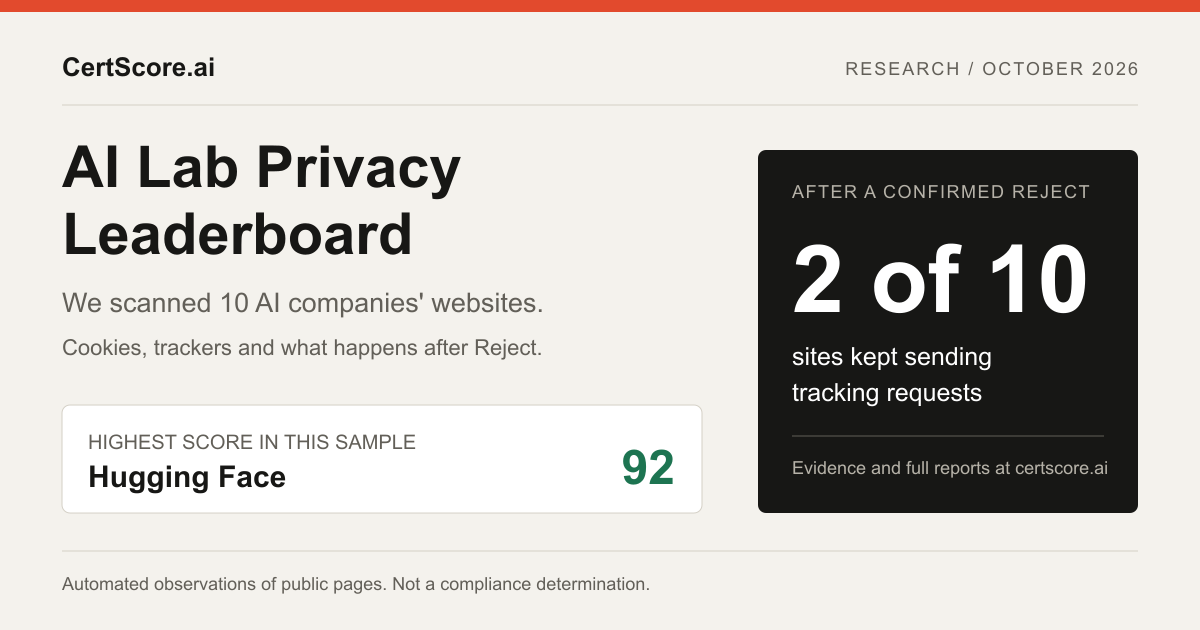
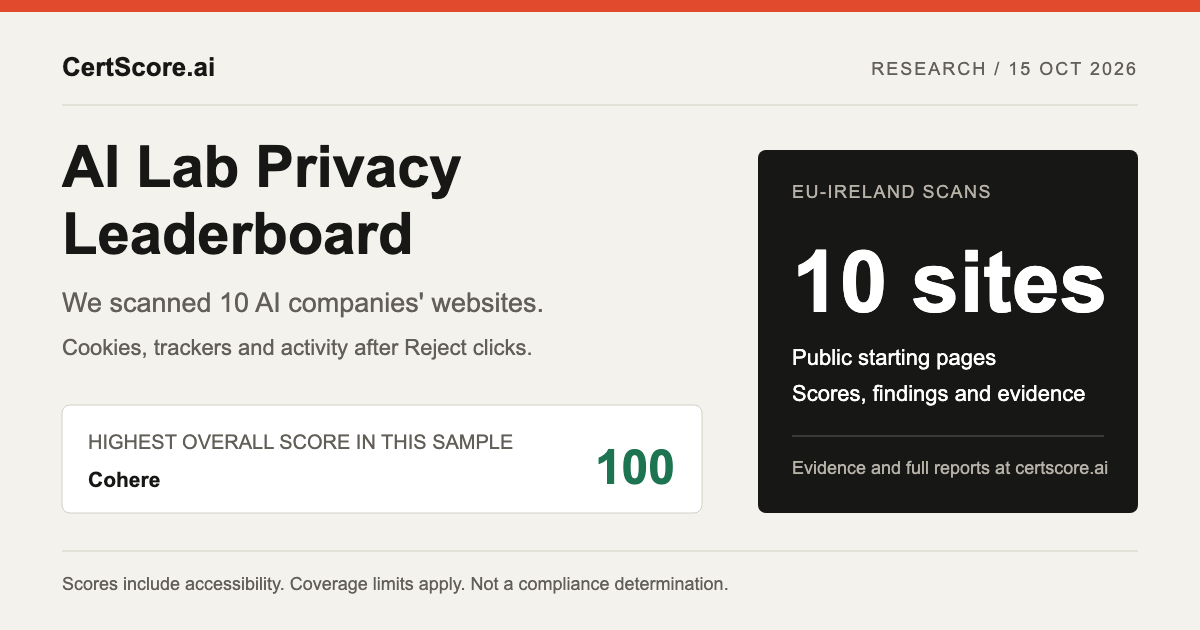
Reconcile live AI leaderboard source with repository

diff --git a/content/insights/ai-lab-privacy-leaderboard-2026.html b/content/insights/ai-lab-privacy-leaderboard-2026.html
@@ -5,26 +5,27 @@
   <meta name="color-scheme" content="light dark">
   <link rel="icon" href="/favicon.png">
   <title>AI Lab Privacy Leaderboard: We Scanned 10 AI Companies' Websites for Privacy Signals | CertScore.ai</title>
-  <meta name="description" content="CertScore.ai scanned the public websites of 10 AI companies for privacy signals: pre-consent cookies, trackers, and what happens after Reject. Hugging Face scored highest at 92.">
+  <meta name="description" content="EU-Ireland scans of 10 AI companies&#x27; websites. Cohere scored 100, OpenAI 98 and DeepMind 73. Cookies, trackers and activity after Reject, with evidence and coverage limits.">
   <link rel="canonical" href="https://certscore.ai/insights/ai-lab-privacy-leaderboard-2026">
   <meta property="og:type" content="article">
   <meta property="og:site_name" content="CertScore.ai">
   <meta property="og:url" content="https://certscore.ai/insights/ai-lab-privacy-leaderboard-2026">
   <meta property="og:title" content="AI Lab Privacy Leaderboard: We Scanned 10 AI Companies' Websites for Privacy Signals">
-  <meta property="og:description" content="CertScore.ai scanned the public websites of 10 AI companies for privacy signals: pre-consent cookies, trackers, and what happens after Reject. Hugging Face scored highest at 92.">
+  <meta property="og:description" content="EU-Ireland scans of 10 AI companies&#x27; websites. Cohere scored 100, OpenAI 98 and DeepMind 73. Cookies, trackers and activity after Reject, with evidence and coverage limits.">
   <meta property="og:image" content="https://certscore.ai/images/ai-leaderboard-social-card.png">
   <meta property="og:image:type" content="image/png">
   <meta property="og:image:width" content="1200">
   <meta property="og:image:height" content="630">
-  <meta property="og:image:alt" content="AI Lab Privacy Leaderboard: Hugging Face scored highest at 92; tracking continued after Reject on 2 of 10 sites">
+  <meta property="og:image:alt" content="AI Lab Privacy Leaderboard: EU-Ireland scans of 10 websites; Cohere scored highest at 100. Scores include privacy and accessibility checks.">
   <meta property="article:published_time" content="2026-10-12">
+  <meta property="article:modified_time" content="2026-10-15">
   <meta name="twitter:card" content="summary_large_image">
   <meta name="twitter:title" content="AI Lab Privacy Leaderboard: We Scanned 10 AI Companies' Websites for Privacy Signals">
-  <meta name="twitter:description" content="CertScore.ai scanned the public websites of 10 AI companies for privacy signals: pre-consent cookies, trackers, and what happens after Reject. Hugging Face scored highest at 92.">
+  <meta name="twitter:description" content="EU-Ireland scans of 10 AI companies&#x27; websites. Cohere scored 100, OpenAI 98 and DeepMind 73. Cookies, trackers and activity after Reject, with evidence and coverage limits.">
   <meta name="twitter:image" content="https://certscore.ai/images/ai-leaderboard-social-card.png">
-  <meta name="twitter:image:alt" content="AI Lab Privacy Leaderboard: Hugging Face scored highest at 92; tracking continued after Reject on 2 of 10 sites">
-  <script type="application/ld+json">{"@context":"https://schema.org","@type":"Article","headline":"Privacy signals on 10 AI companies' websites","description":"CertScore.ai scanned the public websites of 10 AI companies for privacy signals: pre-consent cookies, trackers, and what happens after Reject. Hugging Face scored highest at 92.","url":"https://certscore.ai/insights/ai-lab-privacy-leaderboard-2026","mainEntityOfPage":{"@type":"WebPage","@id":"https://certscore.ai/insights/ai-lab-privacy-leaderboard-2026"},"image":["https://certscore.ai/images/ai-leaderboard-social-card.png"],"author":{"@type":"Organization","name":"CertScore.ai","url":"https://certscore.ai"},"publisher":{"@type":"Organization","name":"CertScore.ai","url":"https://certscore.ai"},"datePublished":"2026-10-12","dateModified":"2026-10-14","inLanguage":"en"}</script>
-<script type="application/ld+json">{"@context":"https://schema.org","@type":"FAQPage","mainEntity":[{"@type":"Question","name":"Which AI company has the best privacy posture on its own website?","acceptedAnswer":{"@type":"Answer","text":"According to CertScore.ai MCP Light scans conducted on October 12, 2026, Hugging Face scored highest among the ten websites, at 92, with a single minor pre-consent storage observation. Its report describes an AWS WAF token as likely security-related. This ranking covers the recorded starting-page visit, not a full-site audit or compliance determination."}},{"@type":"Question","name":"What happens after you click Reject on AI company websites?","acceptedAnswer":{"@type":"Answer","text":"On 2 of the 10 sites, tracking requests kept firing after a confirmed Reject click: eight non-essential Google requests on one site and two tracking requests on another. The linked reports retain the observations. These results describe the recorded visits and do not establish how every visitor or later visit will behave."}},{"@type":"Question","name":"How does CertScore.ai scan a website?","acceptedAnswer":{"@type":"Answer","text":"CertScore.ai runs an automated browser scan of a website's public starting page. It observes pre-consent cookies and storage, tracker requests, consent-control behavior, including eligible Accept and Reject clicks, and policy surfaces. No account is needed. The linked report shows the retained observations and any limits on what the scan could assess."}},{"@type":"Question","name":"Are these findings legal determinations?","acceptedAnswer":{"@type":"Answer","text":"No. The findings are automated observations of public pages, not legal advice, certification, or a compliance determination. A flagged signal identifies something to review against the retained evidence and its context. The scans cover a starting page and a bounded visit, so they do not establish a website's complete behavior."}},{"@type":"Question","name":"What is CertScore.ai MCP Light?","acceptedAnswer":{"@type":"Answer","text":"CertScore.ai MCP Light is a free, no-auth MCP endpoint that lets AI agents run public website privacy scans from a compatible MCP client, with no OAuth required. You can also run the same type of scan manually in your browser at certscore.ai. Each report shows the observed signals, evidence and coverage limits."}}]}</script>
+  <meta name="twitter:image:alt" content="AI Lab Privacy Leaderboard: EU-Ireland scans of 10 websites; Cohere scored highest at 100. Scores include privacy and accessibility checks.">
+  <script type="application/ld+json">{"@context":"https://schema.org","@type":"Article","headline":"Privacy signals on 10 AI companies' websites","description":"EU-Ireland scans of 10 AI companies' websites. Cohere scored 100, OpenAI 98 and DeepMind 73. Cookies, trackers and activity after Reject, with evidence and coverage limits.","url":"https://certscore.ai/insights/ai-lab-privacy-leaderboard-2026","mainEntityOfPage":{"@type":"WebPage","@id":"https://certscore.ai/insights/ai-lab-privacy-leaderboard-2026"},"image":["https://certscore.ai/images/ai-leaderboard-social-card.png"],"author":{"@type":"Organization","name":"CertScore.ai","url":"https://certscore.ai"},"publisher":{"@type":"Organization","name":"CertScore.ai","url":"https://certscore.ai"},"datePublished":"2026-10-12","dateModified":"2026-10-15","inLanguage":"en"}</script>
+<script type="application/ld+json">{"@context":"https://schema.org","@type":"FAQPage","mainEntity":[{"@type":"Question","name":"Which AI company has the best privacy posture on its own website?","acceptedAnswer":{"@type":"Answer","text":"According to these October 15 EU-Ireland scans through CertScore.ai MCP Light, Cohere had the highest reported overall score at 100. Its accessibility coverage was limited. The score describes captured starting-page evidence, including privacy and accessibility checks. It does not establish legal compliance or assess conversations, training data or every visit."}},{"@type":"Question","name":"What happens after you click Reject on AI company websites?","acceptedAnswer":{"@type":"Answer","text":"OpenAI's report retained two Cloudflare analytics requests after Reject was clicked, first seen at 0.52 seconds. Cohere and xAI had no qualifying post-Reject issue in their eight-second windows. These are bounded observations of particular visits. Request purpose and retained evidence matter; requests alone do not establish a legal violation."}},{"@type":"Question","name":"How does CertScore.ai scan a website?","acceptedAnswer":{"@type":"Answer","text":"CertScore.ai runs an automated browser scan of a website's public starting page. It observes pre-consent cookies and storage, tracker requests, consent-control behavior, including eligible Accept and Reject clicks, and policy surfaces. No account is needed. The linked report shows the retained observations and any limits on what the scan could assess."}},{"@type":"Question","name":"Are these findings legal determinations?","acceptedAnswer":{"@type":"Answer","text":"No. The findings are automated observations of public pages, not legal advice, certification, or a compliance determination. A flagged signal identifies something to review against the retained evidence and its context. The scans cover a starting page and a bounded visit, so they do not establish a website's complete behavior."}},{"@type":"Question","name":"What is CertScore.ai MCP Light?","acceptedAnswer":{"@type":"Answer","text":"CertScore.ai MCP Light is a free, no-auth MCP endpoint that lets AI agents run public website privacy scans from a compatible MCP client, with no OAuth required. You can also run the same type of scan manually in your browser at certscore.ai. Each report shows the observed signals, evidence and coverage limits."}}]}</script>
   <style>
 
     :root {
@@ -333,6 +334,7 @@
       *, *::before, *::after { transition: none !important; }
     }
   </style>
+<!-- Insights S3 publishing verification: content-only release. -->
 </head>
 <body>
   <main>
@@ -343,126 +345,120 @@
           <a href="#leaderboard">Leaderboard</a>
           <a href="#findings">Findings</a>
           <a href="#method">Methodology</a>
-          <a href="#validation">Validation</a>
+          <a href="#validation">Evidence</a>
         </nav>
-        <div class="date">12 OCT 2026</div>
+        <div class="date">15 OCT 2026</div>
       </header>
 
       <section class="hero article-hero">
         <div>
-          <p class="kicker">Run with CertScore.ai MCP Light · October 12, 2026</p>
+          <p class="kicker">CertScore.ai MCP Light · EU-Ireland scans · October 15, 2026 (UTC)</p>
           <h1>Privacy signals on 10 AI companies' websites</h1>
-          <p class="dek">We scanned the public starting pages of ten AI companies: OpenAI, Anthropic, Google DeepMind, Meta AI, xAI, Mistral, Perplexity, Cohere, Groq, and Hugging Face. The reports cover cookies and storage set before consent, tracking requests, and activity after a visitor clicks “Reject.” The scores below summarize the observations from those visits.</p>
+          <p class="dek">We scanned the public starting pages of ten AI companies: OpenAI, Anthropic, Google DeepMind, Meta AI Developer website, xAI, Mistral, Perplexity, Cohere, Groq, and Hugging Face. The reports cover cookies and storage before consent, tracking requests, consent controls, and activity after Reject was clicked. The leaderboard uses CertScore.ai's overall score, which includes automated accessibility checks alongside privacy signals.</p>
           <section class="key-findings" aria-labelledby="key-findings-title">
             <h2 id="key-findings-title">Key findings</h2>
             <ul>
-              <li>Hugging Face scored highest at 92, with a single minor pre-consent storage observation.</li>
-              <li>On 2 of 10 sites, tracking requests kept firing after a confirmed Reject click: 8 non-essential Google requests on one site, 2 on another.</li>
-              <li>Pre-consent tracking was common: Google Analytics on Mistral before any click, YouTube cookies on DeepMind via embeds, a Reddit pixel on Groq.</li>
-              <li>Findings are automated observations of public pages, not legal advice or compliance determinations.</li>
+              <li>Cohere had the highest reported score at 100, with limited accessibility coverage. OpenAI scored 98; Anthropic and Hugging Face scored 93.</li>
+              <li>OpenAI's report retained two Cloudflare analytics requests after Reject was clicked, first seen at 0.52 seconds. Cohere and xAI had no qualifying post-Reject issue in their eight-second windows.</li>
+              <li>Mistral scored 82, with Google Analytics observed before a choice and storage consent declared denied. DeepMind scored 73; Groq scored 81, with Reddit and Google requests before consent.</li>
+              <li>Findings are automated observations of public pages, not legal advice or compliance determinations. Scores include accessibility checks and apply only to the captured visits.</li>
             </ul>
           </section>
         </div>
       </section>
 
+      <p class="fine-print"><strong>Scan date: October 15, 2026 (UTC).</strong> Each entry links to the report for that visit. The Meta entry covers the <strong>Meta AI Developer website</strong> at dev.meta.ai. Scores describe the public starting pages and the evidence captured during those visits.</p>
+
       <section class="scoreboard" id="leaderboard" aria-labelledby="leaderboard-title">
         <h2 class="leaderboard-heading" id="leaderboard-title">The leaderboard</h2>
-        <div class="score-head" aria-hidden="true">
-          <span>Rank</span><span>Site</span><span>Signal</span><span>CertScore.ai</span><span></span>
-        </div>
-
-        <a class="row" data-band="good" href="https://certscore.ai/scan/cfe74173-c90a-48a7-859d-740b6c823180" target="_blank" rel="noopener">
-          <span class="rank">01</span><span class="lab">huggingface.co<span class="domain">Hugging Face</span></span>
-          <span class="finding">Only flag: a pre-consent storage item (AWS WAF token, likely security-related)</span>
+        <p class="fine-print">These are overall scores, including privacy and accessibility deductions. Coverage varies: xAI's accessibility check was unassessed, and other reports retain narrower limits. Each report shows the evidence, deduction breakdown and coverage.</p>
+        <div class="score-head" aria-hidden="true"><span>Rank</span><span>Site</span><span>Signal</span><span>Overall score</span><span></span></div>
+        <a class="row" data-band="good" href="https://certscore.ai/scan/f32b8c45-3693-4cad-8456-d77c8fa39f20" target="_blank" rel="noopener">
+          <span class="rank">01</span><span class="lab">cohere.com<span class="domain">Cohere</span></span>
+          <span class="finding">No supported deductions in this visit; accessibility coverage limited.</span>
+          <span class="bar" aria-hidden="true"><span style="--w:100%"></span></span><span class="score">100</span><span class="open">View report ↗</span>
+        </a>
+        <a class="row" data-band="good" href="https://certscore.ai/scan/b0936a37-027a-449d-aeac-a5e31f6ae661" target="_blank" rel="noopener">
+          <span class="rank">02</span><span class="lab">openai.com<span class="domain">OpenAI</span></span>
+          <span class="finding">Two Cloudflare analytics requests after Reject; two points for pointer-target accessibility.</span>
+          <span class="bar" aria-hidden="true"><span style="--w:98%"></span></span><span class="score">98</span><span class="open">View report ↗</span>
+        </a>
+        <a class="row" data-band="good" href="https://certscore.ai/scan/84ae41b1-a12e-43cc-afe2-8d2762bd1d7a" target="_blank" rel="noopener">
+          <span class="rank">03</span><span class="lab">anthropic.com<span class="domain">Anthropic</span></span>
+          <span class="finding">No privacy deductions; seven points for accessible names and contrast.</span>
+          <span class="bar" aria-hidden="true"><span style="--w:93%"></span></span><span class="score">93</span><span class="open">View report ↗</span>
+        </a>
+        <a class="row" data-band="good" href="https://certscore.ai/scan/ca9b97ee-190e-402d-86f0-428f85e6267c" target="_blank" rel="noopener">
+          <span class="rank">03</span><span class="lab">huggingface.co<span class="domain">Hugging Face</span></span>
+          <span class="finding">No privacy deductions; seven points for accessible names and contrast.</span>
+          <span class="bar" aria-hidden="true"><span style="--w:93%"></span></span><span class="score">93</span><span class="open">View report ↗</span>
+        </a>
+        <a class="row" data-band="good" href="https://certscore.ai/scan/ea3fe63f-3100-474f-8e94-8bd151ccc19a" target="_blank" rel="noopener">
+          <span class="rank">05</span><span class="lab">Meta AI Developer website<span class="domain">dev.meta.ai</span></span>
+          <span class="finding">llama_dev_csrf storage purpose review; Accept and Reject observed.</span>
           <span class="bar" aria-hidden="true"><span style="--w:92%"></span></span><span class="score">92</span><span class="open">View report ↗</span>
         </a>
-        <a class="row" data-band="good" href="https://certscore.ai/scan/e3e7cb02-84dc-48fb-974a-ef63fb965e8b" target="_blank" rel="noopener">
-          <span class="rank">02</span><span class="lab">meta.ai<span class="domain">Meta AI</span></span>
-          <span class="finding">Pre-consent storage flag; otherwise clean</span>
-          <span class="bar" aria-hidden="true"><span style="--w:89%"></span></span><span class="score">89</span><span class="open">View report ↗</span>
+        <a class="row" data-band="good" href="https://certscore.ai/scan/eb8f7ee2-27b2-4a48-9df3-40a6b0b95746" target="_blank" rel="noopener">
+          <span class="rank">05</span><span class="lab">x.ai<span class="domain">xAI</span></span>
+          <span class="finding">gb_anon_id storage purpose review; accessibility could not be assessed after a document change.</span>
+          <span class="bar" aria-hidden="true"><span style="--w:92%"></span></span><span class="score">92</span><span class="open">View report ↗</span>
         </a>
-        <a class="row" data-band="good" href="https://certscore.ai/scan/358ac0fd-afba-4d17-aa0e-dc8817f9543e" target="_blank" rel="noopener">
-          <span class="rank">03</span><span class="lab">anthropic.com<span class="domain">Anthropic</span></span>
-          <span class="finding">Decline/reject control only partially supported in testing</span>
+        <a class="row" data-band="good" href="https://certscore.ai/scan/958637c6-06fa-435f-9f02-ad74d70e71de" target="_blank" rel="noopener">
+          <span class="rank">07</span><span class="lab">perplexity.ai<span class="domain">Perplexity</span></span>
+          <span class="finding">Storage purpose review and accessible-name findings on the public starting page.</span>
+          <span class="bar" aria-hidden="true"><span style="--w:88%"></span></span><span class="score">88</span><span class="open">View report ↗</span>
+        </a>
+        <a class="row" data-band="good" href="https://certscore.ai/scan/84f68b55-9384-475a-9741-dda7e2f36bfa" target="_blank" rel="noopener">
+          <span class="rank">08</span><span class="lab">mistral.ai<span class="domain">Mistral</span></span>
+          <span class="finding">Analytics before a choice with denied-storage declarations; Close offered with optional switches off.</span>
+          <span class="bar" aria-hidden="true"><span style="--w:82%"></span></span><span class="score">82</span><span class="open">View report ↗</span>
+        </a>
+        <a class="row" data-band="good" href="https://certscore.ai/scan/eca97712-985d-4409-8310-69a295887240" target="_blank" rel="noopener">
+          <span class="rank">09</span><span class="lab">groq.com<span class="domain">Groq</span></span>
+          <span class="finding">Reddit and Google requests before consent; PostHog analytics storage and unresolved storage purposes.</span>
           <span class="bar" aria-hidden="true"><span style="--w:81%"></span></span><span class="score">81</span><span class="open">View report ↗</span>
         </a>
-        <a class="row" data-band="watch" href="https://certscore.ai/scan/91cbeb92-2d29-474b-b60c-86d767f5caeb" target="_blank" rel="noopener">
-          <span class="rank">04</span><span class="lab">x.ai<span class="domain">xAI</span></span>
-          <span class="finding">Pre-consent storage; uses OneTrust consent tooling</span>
-          <span class="bar" aria-hidden="true"><span style="--w:80%"></span></span><span class="score">80</span><span class="open">View report ↗</span>
-        </a>
-        <a class="row" data-band="watch" href="https://certscore.ai/scan/1f05c7e0-6ade-4448-a965-4e1de903cace" target="_blank" rel="noopener">
-          <span class="rank">05</span><span class="lab">cohere.com<span class="domain">Cohere</span></span>
-          <span class="finding"><strong>8 non-essential Google requests fired 7+ seconds after a confirmed Reject</strong></span>
-          <span class="bar" aria-hidden="true"><span style="--w:77%"></span></span><span class="score">77</span><span class="open">View report ↗</span>
-        </a>
-        <a class="row" data-band="watch" href="https://certscore.ai/scan/14324058-98b5-4981-9f9c-cf5a76fb78d8" target="_blank" rel="noopener">
-          <span class="rank">06</span><span class="lab">openai.com<span class="domain">OpenAI</span></span>
-          <span class="finding"><strong>2 tracking requests (incl. Cloudflare) began after the Reject click</strong></span>
-          <span class="bar" aria-hidden="true"><span style="--w:75%"></span></span><span class="score">75</span><span class="open">View report ↗</span>
-        </a>
-        <a class="row" data-band="watch" href="https://certscore.ai/scan/9b1badef-048a-494e-88f5-0827d2a5e529" target="_blank" rel="noopener">
-          <span class="rank">07</span><span class="lab">groq.com<span class="domain">Groq</span></span>
-          <span class="finding">Pre-consent tracking incl. Reddit pixel and PostHog</span>
-          <span class="bar" aria-hidden="true"><span style="--w:71%"></span></span><span class="score">71</span><span class="open">View report ↗</span>
-        </a>
-        <a class="row" data-band="concern" href="https://certscore.ai/scan/4ae8cca1-0b70-46b6-9ece-8f5d1dc8fb53" target="_blank" rel="noopener">
-          <span class="rank">08</span><span class="lab">mistral.ai<span class="domain">Mistral</span></span>
-          <span class="finding">Google Analytics fired pre-consent; no reject option on the first consent layer</span>
-          <span class="bar" aria-hidden="true"><span style="--w:62%"></span></span><span class="score">62</span><span class="open">View report ↗</span>
-        </a>
-        <a class="row" data-band="concern" href="https://certscore.ai/scan/860c6f2d-7f46-4c66-8451-51e3f7405658" target="_blank" rel="noopener">
-          <span class="rank">09</span><span class="lab">deepmind.google<span class="domain">Google DeepMind</span></span>
-          <span class="finding">YouTube embeds set cookies pre-consent; heaviest deduction set in the group</span>
-          <span class="bar" aria-hidden="true"><span style="--w:59%"></span></span><span class="score">59</span><span class="open">View report ↗</span>
-        </a>
-        <a class="row unscored" href="https://certscore.ai/scan/a9992491-9bf5-480a-a999-f85017d65f13" target="_blank" rel="noopener">
-          <span class="rank">n/a</span><span class="lab">Perplexity, not scored.<span class="domain">perplexity.ai</span></span>
-          <span class="finding">Limited coverage on this run, no score produced.</span>
-          <span class="bar" aria-hidden="true"></span><span class="score" aria-hidden="true"></span><span class="open">View report ↗</span>
+        <a class="row" data-band="concern" href="https://certscore.ai/scan/497fc735-4f71-405d-a565-08be7026eac8" target="_blank" rel="noopener">
+          <span class="rank">10</span><span class="lab">deepmind.google<span class="domain">Google DeepMind</span></span>
+          <span class="finding">Three classified non-essential cookies before consent; tracking and one embed deduction.</span>
+          <span class="bar" aria-hidden="true"><span style="--w:73%"></span></span><span class="score">73</span><span class="open">View report ↗</span>
         </a>
       </section>
 
       <section class="section" id="findings">
-        <div class="section-grid">
-          <div>
-            <h2>Findings</h2>
-          </div>
-          <div class="story-list">
-            <article class="story"><span class="story-no">01</span><div><h3>Hugging Face had the highest score.</h3><p>Hugging Face scored 92. Its report flagged one pre-consent storage item, an AWS WAF token described as likely security-related.</p></div></article>
-            <article class="story"><span class="story-no">02</span><div><h3>Tracking requests after Reject clicks.</h3><p>On cohere.com, eight non-essential Google requests were observed more than seven seconds <em>after</em> a confirmed Reject click. On openai.com, two tracking requests began just under a second after Reject. Under GDPR/ePrivacy logic, a refusal should suppress optional tracking. The reports describe both as “partial concern” / “potential gap” findings. These are observations from the recorded visits, not legal verdicts.</p></div></article>
-            <article class="story"><span class="story-no">03</span><div><h3>Pre-consent tracking.</h3><p>Mistral's site fired Google Analytics before any consent interaction, and its banner didn't offer reject on the first layer. DeepMind's pages set YouTube cookies (<code>__Secure-ROLLOUT_TOKEN</code>) before consent via embeds. Groq's pre-consent inventory included a Reddit pixel.</p></div></article>
-            <article class="story"><span class="story-no">04</span><div><h3>All nine scored sites had review notes.</h3><p>Scores ranged from 59 to 92. All nine scored sites had something flagged for review, mostly storage set before consent where essentiality could not be confirmed.</p></div></article>
-          </div>
-        </div>
+        <div class="section-grid"><div><h2>Findings</h2></div><div class="story-list">
+          <article class="story"><span class="story-no">01</span><div><h3>Cohere led this sample at 100.</h3><p>Cohere scored 100, with no deductions from the captured visit. Accept, Reject and Options were observed, and no qualifying post-Reject issue was recorded during the eight-second window. Its accessibility coverage was limited, so this score should not be read as a complete accessibility assessment. A score of 100 does not establish legal compliance or cover every future visit.</p><p>Anthropic and Hugging Face each scored 93. Both lost four points for accessible names and semantics and three for contrast. Neither received a privacy deduction in these visits. Hugging Face's AWS WAF token was classified as security storage.</p></div></article>
+          <article class="story"><span class="story-no">02</span><div><h3>OpenAI: requests after Reject.</h3><p>On openai.com, two Cloudflare analytics requests began after Reject was clicked; the first was observed at 0.52 seconds. Under GDPR/ePrivacy logic, a refusal should suppress optional tracking. Request purpose matters: a network request alone does not establish optional tracking or a legal violation. The report retains this observation for review and applies no post-Reject deduction.</p><p>OpenAI scored 98. Its only deduction was two points for pointer-target accessibility. No storage deduction was supported by the captured pre-consent inventory. The after-click capture retained 21 requests in total; two were classified as analytics.</p></div></article>
+          <article class="story" id="mistral-follow-up"><span class="story-no">03</span><div><h3>Mistral: Analytics before a choice, with storage denied.</h3><p>Mistral scored 82. Its initial Axeptio panel listed Google Analytics 4 and HubSpot with optional switches off. Close was available as a necessary-only equivalent in that state. A Google Analytics request was observed before a choice and carried denied-storage consent signals.</p><p>The retained cookie inventory contained Axeptio consent records and preferences, plus the <code>__cf_bm</code> security cookie. These items did not attract a storage deduction. The score reflects eight points for pre-choice Analytics and ten for accessibility findings. This request observation does not establish that Mistral ignored a consent choice, and the scan does not treat disclosure alone as a blanket exemption.</p></div></article>
+          <article class="story"><span class="story-no">04</span><div><h3>DeepMind and Groq retained activity before consent.</h3><p>DeepMind scored 73. Three cookies were classified as non-essential before consent: YouTube's <code>__Secure-ROLLOUT_TOKEN</code> and the Google Analytics cookies <code>_ga</code> and <code>_ga_LS8HVHCNQ0</code>. The deductions were 14 points for storage, eight for tracking and five for a distinct third-party embed.</p><p>Other YouTube cookies, including <code>__Secure-YNID</code>, <code>VISITOR_INFO1_LIVE</code> and <code>__Secure-YEC</code>, remained purpose-review items. Their possible uses do not establish which purpose applied in this visit. YouTube was identified as their provider without treating that attribution as proof of advertising.</p><p>Groq scored 81. Its capture included requests classified as Reddit Pixel, Google AdSense and Google Analytics before consent. Its inventory included a PostHog analytics cookie alongside storage whose purposes remained unresolved. The score reflects eight points for storage, eight for tracking and three for contrast. PostHog storage does not by itself establish session recording.</p></div></article>
+          <article class="story"><span class="story-no">05</span><div><h3>Coverage matters alongside the score.</h3><p>The Meta AI Developer website scored 92, with eight points for unresolved <code>llama_dev_csrf</code> storage purpose. Perplexity scored 88, with eight points for storage purpose review and four for accessible names. Those storage findings call for review; cookie names alone do not establish optional tracking.</p><p>xAI scored 92, with eight points for unresolved <code>gb_anon_id</code> storage purpose. Its page document changed during the accessibility check, leaving that part unassessed. The absence of an accessibility deduction is not an accessibility pass. Cohere and xAI had no qualifying post-Reject issue during their eight-second windows.</p></div></article>
+        </div></div>
       </section>
 
       <section class="section" id="method">
-        <div class="section-grid">
-          <div><h2>Methodology</h2></div>
-          <div class="method-copy">
-            <ul>
-              <li>Each site was scanned with <strong>CertScore.ai MCP Light</strong> (free, no-auth endpoint), <code>tracking_check</code> purpose, on October 12, 2026, from the EU-IE region.</li>
-              <li>Scans cover the public starting page: pre-consent cookies/storage, tracker requests, consent-control behavior including eligible Accept/Reject click observations, and policy surfaces.</li>
-              <li>Scores follow CertScore.ai's <code>overall-posture</code> scoring policy (base 100 minus policy deductions). Most runs completed with <strong>partial coverage</strong> (<code>completed_limited</code>), automated single-page scans, not full-site audits.</li>
-              <li>Perplexity.ai could not be scored on this run due to limited coverage; that's a measurement limitation, not a judgment.</li>
-            </ul>
-          </div>
-        </div>
+        <div class="section-grid"><div><h2>Methodology</h2></div><div class="method-copy"><ul>
+          <li>We scanned all ten public starting pages through <strong>CertScore.ai MCP Light</strong>, with <code>tracking_check</code> purpose and EU-Ireland execution, on October 15, 2026 (UTC). The Meta entry covers the Meta AI Developer website at dev.meta.ai. Retained egress evidence verified Ireland for both the consent and runtime visits on all ten sites.</li>
+          <li>The reports cover pre-consent cookies and storage, tracker requests, consent-control observations, eligible Accept and Reject click captures, policy surfaces, transport security and automated accessibility checks. Where Reject could be clicked, the scanner captured roughly eight seconds of after-click activity.</li>
+          <li>The displayed number is the <strong>overall score</strong>, using <code>overall-posture.v10</code> and <code>gdpr-eprivacy-posture.v20</code>: a base of 100 minus supported deductions, with family caps. Accessibility affects this number. It is not a standalone GDPR compliance score.</li>
+          <li>After-Reject scoring distinguishes supported optional tracking or contradictions (15 points), sufficiently evidenced storage-denied measurement (five), and performance-only or insufficient-evidence review (zero). Zero deduction does not establish successful refusal or legal compliance.</li>
+          <li>Nine reports completed with limited coverage; the Meta AI Developer report completed without that status. Limits differ by check, from items requiring review to xAI's unassessed accessibility capture. Missing capture, unknown purpose and unsupported paths must be read alongside the score. These are bounded starting-page visits, not full-site audits or assessments of how AI products use conversations or training data.</li>
+          <li>Cookie purpose and provider attribution were assessed separately. Mixed or unresolved purposes remained review items; a provider name was not treated as proof of advertising or other optional use.</li>
+          <li>Perplexity scored 88. Its public-page visit retained storage requiring purpose review and accessible-name findings. The report includes its cookie-choice observations and coverage limits.</li>
+        </ul></div></div>
       </section>
     </div>
 
     <section class="validation" id="validation">
       <div class="wrap section-grid">
         <div>
-          <h2>HTTP cross-check</h2>
-          <p class="section-intro">To check the scanner's work, we re-verified the headline signals without touching CertScore.ai: fresh, cookie-less HTTP fetches of each homepage (no JavaScript, no consent interaction), inspecting response <code>Set-Cookie</code> headers and the raw HTML for tracker/CMP signatures.</p>
+          <h2>What the scans captured</h2>
+          <p class="section-intro">The linked reports retain the observations behind each score. Cookies, network requests and consent controls need to be read together: a vendor name or a request alone does not establish its purpose or legal status.</p>
         </div>
         <div class="proofs">
-          <article class="proof"><span class="mark">7 OF 10</span><h3>Vendor presence confirmed</h3><p>The HTML shows YouTube embeds on deepmind.google, Axeptio on mistral.ai, OneTrust on x.ai, CookieYes on cohere.com, PostHog on groq.com, Stripe on huggingface.co, and Webflow + CloudFront on anthropic.com, matching the vendors CertScore.ai reported.</p></article>
-          <article class="proof"><span class="mark">EXACT COOKIE MATCH</span><h3>x.ai</h3><p><code>gb_anon_id</code> is set on the very first HTTP response, before any consent is possible, the same cookie CertScore.ai flagged as its first retained pre-consent item.</p></article>
-          <article class="proof"><span class="mark">MECHANISM CHECK</span><h3>JavaScript timing</h3><p>Most flagged cookies don't appear in response headers at all; they're set by JavaScript seconds after load, consistent with CertScore.ai's “first observed N seconds after scan start” timings.</p></article>
-          <article class="proof limit"><span class="mark">LIMITS</span><h3>Post-Reject behavior</h3><p>Post-Reject behavior (the cohere.com and openai.com findings) can't be validated without driving consent clicks in a real browser, so that part rests on CertScore.ai's evidence alone. openai.com and meta.ai block plain-HTTP fetching with bot challenges, so their HTML couldn't be independently inspected either.</p></article>
+          <article class="proof"><span class="mark">COOKIES &amp; STORAGE</span><h3>Purpose matters</h3><p>Hugging Face's AWS WAF token and Mistral's consent records, preferences and security cookie received no storage deduction. Storage with an unresolved purpose remained a review signal, including <code>llama_dev_csrf</code> on the Meta AI Developer website and <code>gb_anon_id</code> on x.ai.</p></article>
+          <article class="proof"><span class="mark">BEFORE A CHOICE</span><h3>Requests and consent signals</h3><p>Mistral's Google Analytics request carried denied-storage consent signals before a choice. Groq loaded a Reddit pixel before consent. These observations describe the captured activity; disclosure and consent-mode declarations provide context but do not by themselves determine compliance.</p></article>
+          <article class="proof"><span class="mark">AFTER REJECT</span><h3>A bounded observation window</h3><p>OpenAI's capture retained two Cloudflare analytics requests after Reject was clicked, with the first at 0.52 seconds. Cohere and xAI had no qualifying post-Reject issue during their eight-second windows. These results describe the observed visits, not every possible visit or later activity.</p></article>
+          <article class="proof limit"><span class="mark">COVERAGE</span><h3>What a score cannot settle</h3><p>Nine reports retained limited coverage. xAI's accessibility capture was unassessed after a document change. Unknown cookie purposes, unavailable paths and unassessed activity remain limits on interpretation. A high score or a zero deduction is not proof of legal compliance, successful refusal or the absence of tracking outside the capture window.</p></article>
         </div>
       </div>
     </section>
@@ -471,7 +467,7 @@
       <section class="section">
         <div class="section-grid">
           <div><h2>Reading the results</h2><p class="section-intro">Please keep this attached to any republication.</p></div>
-          <div class="fine-print"><p>These are <strong>automated observations of public web pages</strong>, not legal advice, certification, or a determination of compliance. A flagged signal means “worth a human look,” not “violation.” Sites change constantly. Rescan before citing.</p></div>
+          <div class="fine-print"><p>These are <strong>automated observations of public web pages</strong>, not legal advice, certification, or a determination of compliance. A flagged signal means “worth a human look,” not “violation.” The overall score includes accessibility. A high score does not resolve unknown purposes or missing coverage, and a zero deduction is not proof that a consent choice was honored. Sites and capture timing change; cite the linked visit and its date.</p></div>
         </div>
       </section>
 
@@ -480,45 +476,21 @@
           <div><h2>Run your own</h2></div>
           <div class="run-copy">
             <a class="button" href="https://certscore.ai">Put your own site on the scanner. Check your privacy posture.</a>
-            <p>Every scan above links to a full evidence report. You can request the same check for a public website without an account:</p>
+            <p>The entries above link to the scan reports. You can request the same check for a public website without an account:</p>
             <ul class="run-links">
               <li><strong>Scan your site:</strong> <a href="https://certscore.ai" target="_blank" rel="noopener">https://certscore.ai</a></li>
               <li><strong>For AI agents:</strong> <a href="https://certscore.ai/mcp/light">CertScore.ai MCP Light</a> works with any MCP client, no OAuth required.</li>
             </ul>
-            <h3 class="report-heading">Individual scan reports:</h3>
-            <ul class="report-list">
-              <li><a href="https://certscore.ai/scan/cfe74173-c90a-48a7-859d-740b6c823180" target="_blank" rel="noopener">Hugging Face (92)</a></li>
-              <li><a href="https://certscore.ai/scan/e3e7cb02-84dc-48fb-974a-ef63fb965e8b" target="_blank" rel="noopener">Meta AI (89)</a></li>
-              <li><a href="https://certscore.ai/scan/358ac0fd-afba-4d17-aa0e-dc8817f9543e" target="_blank" rel="noopener">Anthropic (81)</a></li>
-              <li><a href="https://certscore.ai/scan/91cbeb92-2d29-474b-b60c-86d767f5caeb" target="_blank" rel="noopener">xAI (80)</a></li>
-              <li><a href="https://certscore.ai/scan/1f05c7e0-6ade-4448-a965-4e1de903cace" target="_blank" rel="noopener">Cohere (77)</a></li>
-              <li><a href="https://certscore.ai/scan/14324058-98b5-4981-9f9c-cf5a76fb78d8" target="_blank" rel="noopener">OpenAI (75)</a></li>
-              <li><a href="https://certscore.ai/scan/9b1badef-048a-494e-88f5-0827d2a5e529" target="_blank" rel="noopener">Groq (71)</a></li>
-              <li><a href="https://certscore.ai/scan/4ae8cca1-0b70-46b6-9ece-8f5d1dc8fb53" target="_blank" rel="noopener">Mistral (62)</a></li>
-              <li><a href="https://certscore.ai/scan/860c6f2d-7f46-4c66-8451-51e3f7405658" target="_blank" rel="noopener">DeepMind (59)</a></li>
-              <li><a href="https://certscore.ai/scan/a9992491-9bf5-480a-a999-f85017d65f13" target="_blank" rel="noopener">Perplexity (not scored)</a></li>
-            </ul>
           </div>
         </div>
       </section>
 
-      <section class="section" id="faq" aria-labelledby="faq-title">
-        <div class="section-grid">
-          <div><h2 id="faq-title">FAQ</h2></div>
-          <div class="faq-list">
-            <article><h3>Which AI company has the best privacy posture on its own website?</h3><p>According to CertScore.ai MCP Light scans conducted on October 12, 2026, Hugging Face scored highest among the ten websites, at 92, with a single minor pre-consent storage observation. Its report describes an AWS WAF token as likely security-related. This ranking covers the recorded starting-page visit, not a full-site audit or compliance determination.</p></article>
-<article><h3>What happens after you click Reject on AI company websites?</h3><p>On 2 of the 10 sites, tracking requests kept firing after a confirmed Reject click: eight non-essential Google requests on one site and two tracking requests on another. The linked reports retain the observations. These results describe the recorded visits and do not establish how every visitor or later visit will behave.</p></article>
-<article><h3>How does CertScore.ai scan a website?</h3><p>CertScore.ai runs an automated browser scan of a website's public starting page. It observes pre-consent cookies and storage, tracker requests, consent-control behavior, including eligible Accept and Reject clicks, and policy surfaces. No account is needed. The linked report shows the retained observations and any limits on what the scan could assess.</p></article>
-<article><h3>Are these findings legal determinations?</h3><p>No. The findings are automated observations of public pages, not legal advice, certification, or a compliance determination. A flagged signal identifies something to review against the retained evidence and its context. The scans cover a starting page and a bounded visit, so they do not establish a website's complete behavior.</p></article>
-<article><h3>What is CertScore.ai MCP Light?</h3><p>CertScore.ai MCP Light is a free, no-auth MCP endpoint that lets AI agents run public website privacy scans from a compatible MCP client, with no OAuth required. You can also run the same type of scan manually in your browser at certscore.ai. Each report shows the observed signals, evidence and coverage limits.</p></article>
-          </div>
-        </div>
-      </section>
+      <section class="section" id="faq" aria-labelledby="faq-title"><div class="section-grid"><div><h2 id="faq-title">FAQ</h2></div><div class="faq-list"><article><h3>Which AI company has the best privacy posture on its own website?</h3><p>According to these October 15 EU-Ireland scans through CertScore.ai MCP Light, Cohere had the highest reported overall score at 100. Its accessibility coverage was limited. The score describes captured starting-page evidence, including privacy and accessibility checks. It does not establish legal compliance or assess conversations, training data or every visit.</p></article><article><h3>What happens after you click Reject on AI company websites?</h3><p>OpenAI&#x27;s report retained two Cloudflare analytics requests after Reject was clicked, first seen at 0.52 seconds. Cohere and xAI had no qualifying post-Reject issue in their eight-second windows. These are bounded observations of particular visits. Request purpose and retained evidence matter; requests alone do not establish a legal violation.</p></article><article><h3>How does CertScore.ai scan a website?</h3><p>CertScore.ai runs an automated browser scan of a website&#x27;s public starting page. It observes pre-consent cookies and storage, tracker requests, consent-control behavior, including eligible Accept and Reject clicks, and policy surfaces. No account is needed. The linked report shows the retained observations and any limits on what the scan could assess.</p></article><article><h3>Are these findings legal determinations?</h3><p>No. The findings are automated observations of public pages, not legal advice, certification, or a compliance determination. A flagged signal identifies something to review against the retained evidence and its context. The scans cover a starting page and a bounded visit, so they do not establish a website&#x27;s complete behavior.</p></article><article><h3>What is CertScore.ai MCP Light?</h3><p>CertScore.ai MCP Light is a free, no-auth MCP endpoint that lets AI agents run public website privacy scans from a compatible MCP client, with no OAuth required. You can also run the same type of scan manually in your browser at certscore.ai. Each report shows the observed signals, evidence and coverage limits.</p></article></div></div></section>
 
       <footer>
-        <span>Run with CertScore.ai MCP Light · October 12, 2026</span>
+        <span>Scans: CertScore.ai MCP Light · October 15, 2026 (UTC)</span>
         <span>Republishing &amp; other inquiries: <a href="mailto:support@certscore.ai">support@certscore.ai</a></span>
-        <span>10 public websites · 9 scored · 1 limited</span>
+        <span>10 public websites · 10 scored · Coverage limits in each report</span>
       </footer>
     </div>
   </main>
